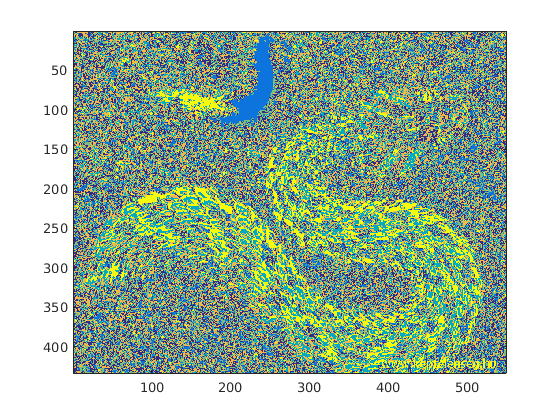
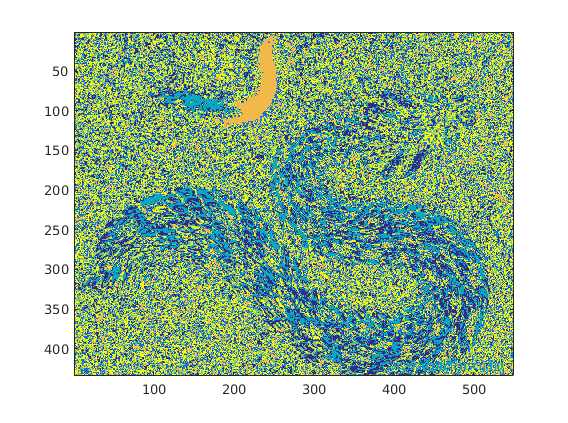
progress

diff --git a/segmentMain.m b/segmentMain.m
@@ -1,6 +1,9 @@
 % k-means segmentation experiments
 % Author: Jin Yeom (jinyeom@utexas.edu)
 
+% Seed the random number generator with 42.
+rng(42);
+
 % Test images.
 I = im2double(imread('images/gumballs.jpg'));
 J = im2double(imread('images/twins.jpg'));
@@ -43,30 +46,42 @@ print('images/imstack.png', '-dpng', '-r0'); close
 T = createTextons(S, F, k);
 fprintf('textons dimensions: (%s)\n', num2str(size(T)))
 
+% Generate second textons with a subset of the filter bank with only thin edge
+% detectors (the first 18).
+F2 = F(:, :, 1:18);
+displayFilterBank(F2)
+print('images/filters_subset.png', '-dpng', '-r0'); close
+T2 = createTextons(S, F2, k);
+fprintf('textons subset dimensions: (%s)\n', num2str(size(T2)))
+
 % Now for the experiments...
 [colorLabelIm, textureLabelIm] = compareSegmentations(I, F, T, 35, 6, 6);
 figure;
 imagesc(colorLabelIm); print('images/gumballs_color.png', '-dpng', '-r0');
 imagesc(textureLabelIm); print('images/gumballs_texture.png', '-dpng', '-r0');
 disp('Gumballs figure saved.')
+close
 
 [colorLabelIm, textureLabelIm] = compareSegmentations(J, F, T, 35, 6, 6);
 figure;
 imagesc(colorLabelIm); print('images/twins_color.png', '-dpng', '-r0');
 imagesc(textureLabelIm); print('images/twins_texture.png', '-dpng', '-r0');
 disp('Twins figure saved.')
+close
 
 [colorLabelIm, textureLabelIm] = compareSegmentations(K, F, T, 35, 6, 6);
 figure;
 imagesc(colorLabelIm); print('images/snake_color.png', '-dpng', '-r0');
 imagesc(textureLabelIm); print('images/snake_texture.png', '-dpng', '-r0');
 disp('Snake figure saved.')
+close
 
 [colorLabelIm, textureLabelIm] = compareSegmentations(L, F, T, 35, 6, 6);
 figure;
 imagesc(colorLabelIm); print('images/car_color.png', '-dpng', '-r0');
 imagesc(textureLabelIm); print('images/car_texture.png', '-dpng', '-r0');
 disp('Car figure saved.')
+close
 
 disp('Comparing window sizes...')
 win1 = 5; % smaller window size
@@ -77,14 +92,13 @@ figure;
 imagesc(textureSmallWin); print('images/gumballs_small.png', '-dpng', '-r0');
 imagesc(textureLargeWin); print('images/gumballs_large.png', '-dpng', '-r0');
 disp('done.')
+close
 
 disp('Comparing different sets of filters...')
-F2 = F(:, :, 1:18); % only use the first 18 filters (thin edge detectors).
-T2 = createTextons(S, F2, k);
 figure;
 [~, textureFullset] = compareSegmentations(I, F, T, 35, 6, 6);
 [~, textureSubset] = compareSegmentations(I, F2, T2, 35, 6, 6);
 imagesc(textureFullset); print('images/gumballs_fullset.png', '-dpng', '-r0');
 imagesc(textureSubset); print('images/gumballs_subset.png', '-dpng', '-r0');
 disp('done.')
-
+close
